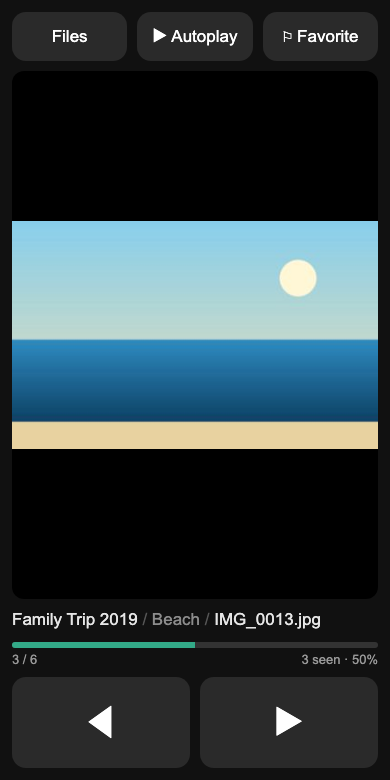
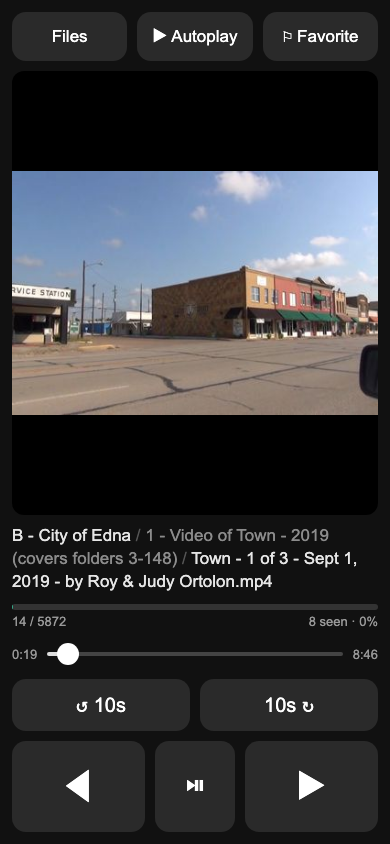
Ship the Mac app as a .dmg
build.sh makes File Presenter.dmg (app + Applications shortcut); README and
user guide point at the release's download names.

diff --git a/README.md b/README.md
@@ -10,7 +10,7 @@ Browse every file on a USB drive or in a folder in a single browser window, cont
 
 ## Download
 
-Get **File Presenter.app** (Mac), **file-presenter.exe** (Windows) and the **User Guide** PDF from the [latest release](https://github.com/LadariousX/file-presenter/releases/latest). The user guide covers first-time setup and full screen on both.
+Get **File-Presenter.dmg** (Mac), **File-Presenter.exe** (Windows) and the **User Guide** PDF from the [latest release](https://github.com/LadariousX/file-presenter/releases/latest). The user guide covers first-time setup and full screen on both.
 
 ## Run
 
@@ -34,7 +34,7 @@ Videos and audio play with sound. Browsers only allow sound after a click or key
 
 Requires Go 1.22+. On a Mac, `./build.sh` builds everything with the app icon into `dist/`:
 
-- `File Presenter.app`: Mac, Apple Silicon and Intel in one app.
+- `File Presenter.app` and `File Presenter.dmg`: Mac, Apple Silicon and Intel in one app; the disk image is what people download.
 - `file-presenter.exe`: Windows, with the icon built in and no console window.
 - `File Presenter User Guide.pdf`: from `USER_GUIDE.md` (needs Chrome, Chromium or Edge installed to print it).
 

diff --git a/USER_GUIDE.md b/USER_GUIDE.md
@@ -6,7 +6,7 @@ File Presenter shows every file on a USB drive or in a folder (photos, videos, m
 
 | Apple Mac | Windows computer |
 |---|---|
-| Open **File Presenter.app**. | Open **file-presenter.exe**. |
+| Open **File Presenter.dmg**, drag **File Presenter** into **Applications**, then open it from there. | Open **File-Presenter.exe**. |
 | **First time:** if macOS says the app can't be opened, go to **System Settings → Privacy & Security**, scroll down and click **Open Anyway**. If it asks about the local network or incoming connections, click **Allow**. | **First time:** if a blue "Windows protected your PC" box appears, click **More info → Run anyway**. If the firewall asks, allow **Private networks**. |
 | **Full screen:** click the browser window, then press **fn + F** (or **Control + Command + F**). Press it again to leave full screen. | **Full screen:** click the browser window, then press **F11** (on some laptops **fn + F11**). Press it again to leave full screen. |
 
